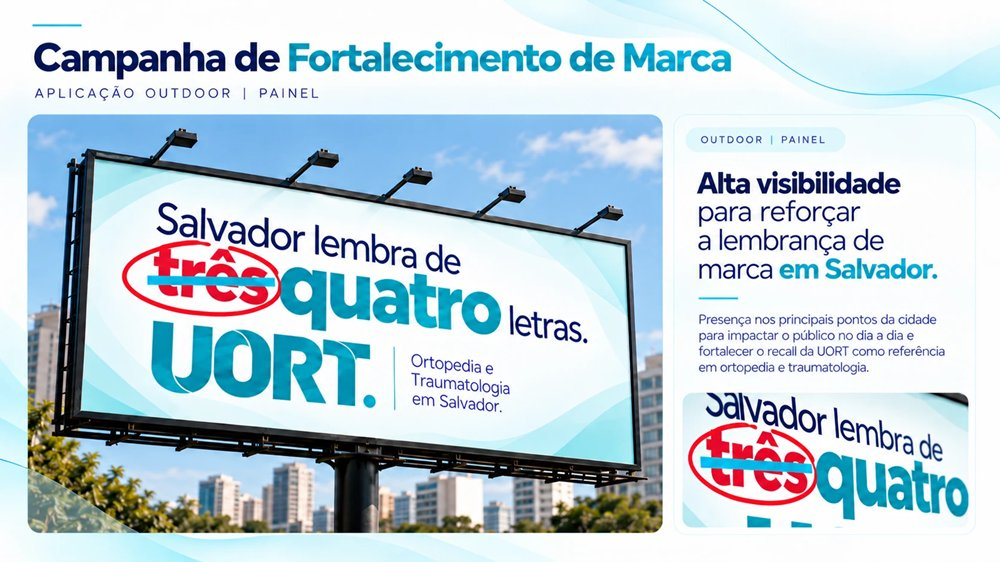
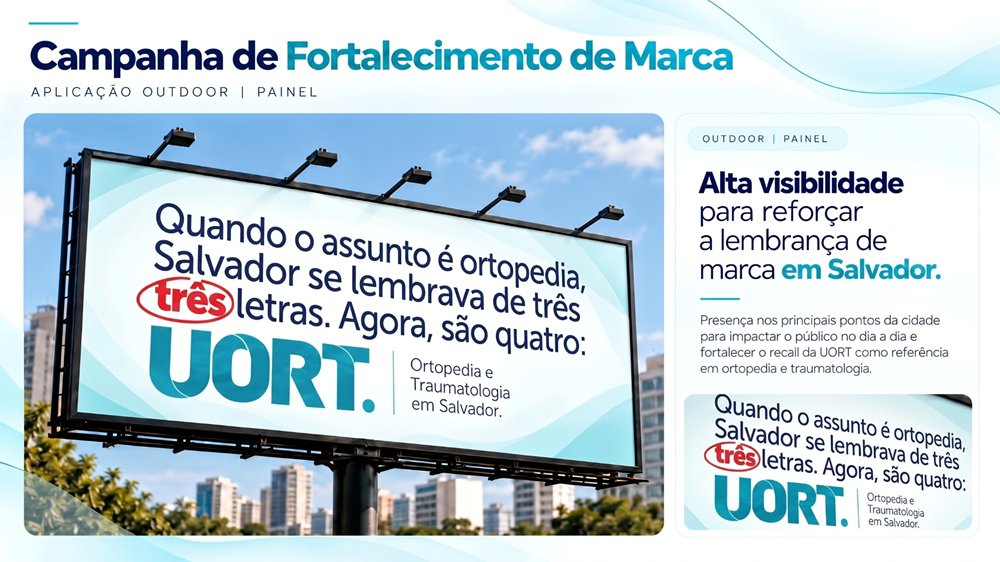
Novo outdoor da campanha "Salvador lembra de quatro letras" (lâmina 24)

diff --git a/js/data.js b/js/data.js
@@ -43,7 +43,7 @@ window.DECK = {
     21: { t: '“Caiu? Machucou? Quebrou?” no rádio e no digital', d: 'Mesmo conceito, diferentes canais: spot de rádio e desdobramento digital, com peças para redes sociais, streaming e plataformas de áudio.', k: 'campanha fortalecimento de marca rádio áudio spot streaming redes sociais' },
     22: { t: 'Campanha: “Salvador lembra de quatro letras”', d: '“Quando o assunto é ortopedia, Salvador lembra de quatro letras: UORT.” Uma provocação elegante para reforçar a lembrança de marca: a campanha parte de uma memória presente no dia a dia dos soteropolitanos e reposiciona a UORT como a referência em ortopedia na cidade, destacando especialidade, estrutura e atendimento completo.', k: 'campanha institucional fortalecimento de marca salvador conceito três letras' },
     23: { t: '“Salvador lembra de quatro letras” no digital', d: 'A mensagem ganha força também no ambiente digital: feed e stories no Instagram com o mesmo impacto, clareza e memorabilidade — “Especialistas, estrutura e atendimento ortopédico completo em Salvador.”', k: 'campanha institucional salvador instagram feed stories digital' },
-    24: { t: '“Salvador lembra de quatro letras” no outdoor', d: 'Painel de alta visibilidade para reforçar a lembrança de marca em Salvador: presença nos principais pontos da cidade para impactar o público no dia a dia e fortalecer o recall da UORT como referência em ortopedia e traumatologia.', k: 'campanha institucional salvador outdoor painel' },
+    24: { t: '“Salvador lembra de quatro letras” no outdoor', d: '“Quando o assunto é ortopedia, Salvador se lembrava de três letras. Agora, são quatro: UORT.” Painel de alta visibilidade para reforçar a lembrança de marca em Salvador: presença nos principais pontos da cidade para impactar o público no dia a dia e fortalecer o recall da UORT como referência em ortopedia e traumatologia.', k: 'campanha institucional salvador outdoor painel' },
     25: { t: 'Campanha: “Quebrou o braço? Torceu o joelho?”', d: 'Campanha de transição, a mais comercial: conecta diretamente com as buscas do paciente, funciona muito bem para mídia de performance e alcança públicos que ainda não conhecem a marca. “Salvador tem uma referência em quatro letras: UORT.” Aplicações em outdoor, digital e rádio.', key: true, k: 'campanha transição fortalecimento de marca performance busca spot rádio' },
     26: { t: '“Quebrou o braço? Torceu o joelho?” no digital e no outdoor', d: 'Anúncio de performance no digital e mídia exterior com a mesma mensagem: pronto atendimento ortopédico em Salvador, sem agendamento, no Caminho das Árvores e com equipe de especialistas. A mesma mensagem, mais alcance para a marca.', k: 'campanha transição anúncio performance outdoor digital pronto atendimento' },
     27: { t: 'Campanha: “Agora, guarde quatro: UORT”', d: 'Durante anos, três letras vieram à cabeça quando alguém falava em ortopedia. Agora, guarde quatro: UORT. A campanha conversa com quem viveu a história da cidade, reforçando que a UORT já existia — uma clínica que já faz parte de Salvador e está pronta para um novo momento da ortopedia.', k: 'campanha fortalecimento de marca salvador história conceito' },
